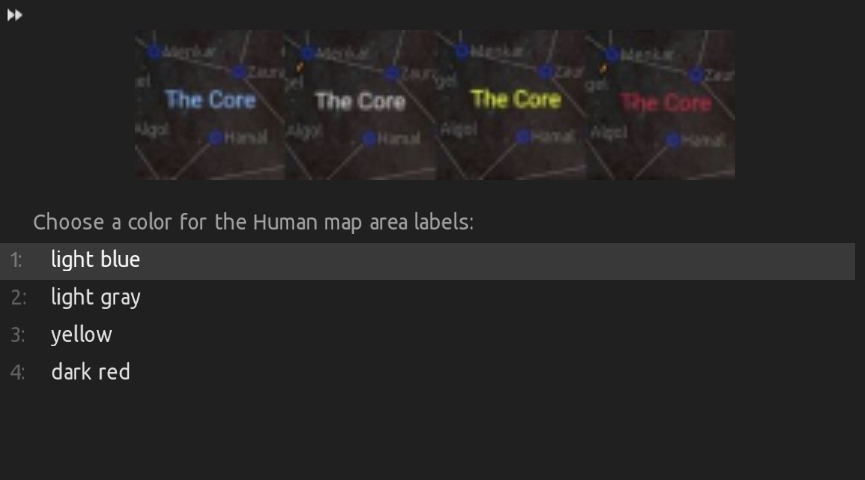
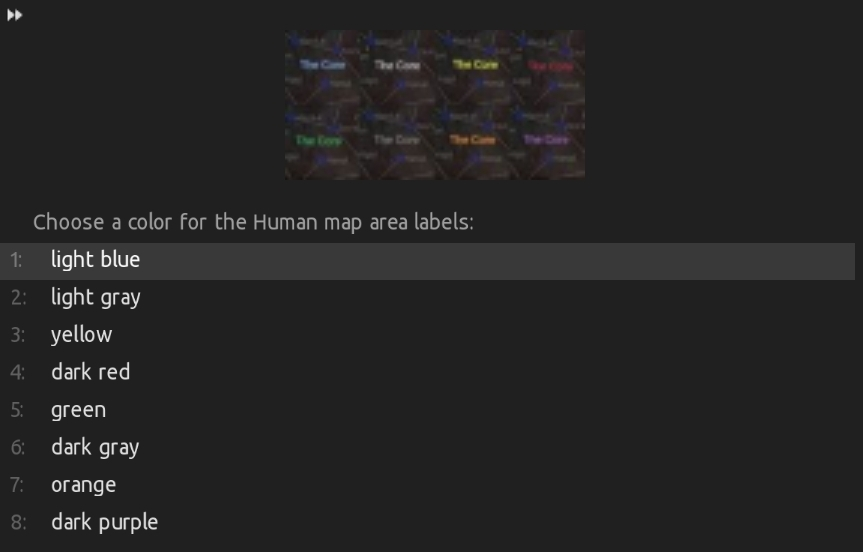
update human.labels

diff --git a/myplugins/human.labels/README.md b/myplugins/human.labels/README.md
@@ -1,15 +1,18 @@
 ### human.labels
 <br>
 <br>
-Reworks the human area labels and adds area borders. See the readme for details.<br>
+Reworks the Human area labels and adds area borders. See the readme for details.<br>
 <br>
-The area labels of human space are now smaller and better to see. Also there is a border drawn around each area.<br>
-On Earth's job board you can find a mission to change the color of the labels(light blue, light gray, yellow, dark red).<br>
+The area labels of Human space are now smaller and better to see. Also there is a border drawn around each area.<br>
+On Earth's job board you can find a mission to change the color of the labels(light blue, light gray, yellow, dark red, green, dark gray, orange, purple).<br>
 <img src='https://raw.githubusercontent.com/zuckung/endless-sky-plugins/master/screenshots/human.labels01.jpg' width='400'>
 <img src='https://raw.githubusercontent.com/zuckung/endless-sky-plugins/master/screenshots/human.labels02.jpg' width='400'>
 <br>
 <br>
 Changelog:<br>
+<br>
+2024-07-08<br>
+added 4 more label colors to choose of (green, dark gray, orange, purple)<br>
 <br>
 2024-07-07<br>
 added 3 more label colors to choose of (light blue, light gray, dark red)<br>
